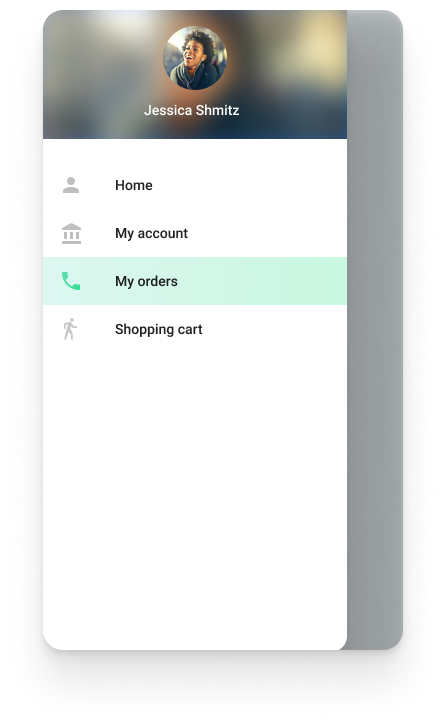
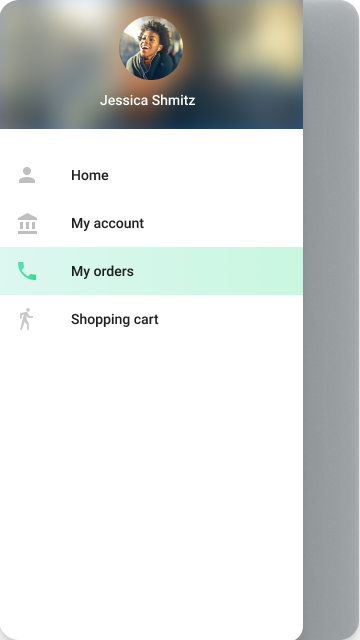
Clean repository, perform code refactor in cart screen
Debug screen and old order screen removed, SideMenu mockup updated, cart functions that modify quantity refactored into a single function.

diff --git a/lib/ui/screens/cart_screen.dart b/lib/ui/screens/cart_screen.dart
@@ -53,6 +53,21 @@ class _CartScreenState extends State<CartScreen> {
     return tempList;
   }
 
+  void onCartItemQuantityChange(int newQuantity, CartScreenViewModel viewModel,
+                                CartItem cartItem, BuildContext context,
+                                {TextEditingController controller}) {
+    if (newQuantity < minQuantity || newQuantity > maxQuantity) {
+      displaySnackbarWithText(context, "The quantity must be between 1 and 50");
+      if (controller != null) {
+        controller.text = cartItem.quantity.toString();
+      }
+    }
+    else {
+      viewModel.changeCartItemQuantityCallback(
+          CartItem(cartItem.productId, newQuantity));
+    }
+  }
+
   @override
   void dispose() {
     textControllers.forEach((element) => element.dispose());
@@ -159,20 +174,13 @@ class _CartScreenState extends State<CartScreen> {
                                       child: IconButton(
                                         icon: Icon(
                                           Icons.remove_circle,
-                                          color: Colors.black,
+                                          //color: Colors.black,
                                         ),
                                         onPressed: () {
                                           int newQuantity =
                                               cartItem.quantity - 1;
-                                          if (newQuantity < minQuantity ||
-                                              newQuantity > maxQuantity)
-                                            displaySnackbarWithText(context,
-                                                "The quantity must be between 1 and 50");
-                                          else
-                                            viewModel
-                                                .changeCartItemQuantityCallback(
-                                                    CartItem(cartItem.productId,
-                                                        newQuantity));
+                                          onCartItemQuantityChange(newQuantity,
+                                              viewModel, cartItem, context);
                                         },
                                       ),
                                     ),
@@ -185,18 +193,13 @@ class _CartScreenState extends State<CartScreen> {
                                           if (!focus) {
                                             int quantity = int.tryParse(
                                                 textQuantityController.text);
+
                                             if (quantity != null) {
-                                              if (quantity < minQuantity ||
-                                                  quantity > maxQuantity)
-                                                displaySnackbarWithText(context,
-                                                    "The quantity must be between 1 and 50");
-                                              else
-                                                viewModel
-                                                    .changeCartItemQuantityCallback(
-                                                        CartItem(
-                                                            cartItem.productId,
-                                                            quantity));
-                                            } else {
+                                              onCartItemQuantityChange(quantity,
+                                                viewModel, cartItem, context,
+                                                controller: textQuantityController);
+                                            }
+                                            else {
                                               displaySnackbarWithText(context,
                                                   "The quantity must be a valid integer");
                                               textQuantityController.text =
@@ -210,18 +213,13 @@ class _CartScreenState extends State<CartScreen> {
                                           controller: textQuantityController,
                                           onSubmitted: (value) {
                                             int quantity = int.tryParse(value);
+
                                             if (quantity != null) {
-                                              if (quantity < minQuantity ||
-                                                  quantity > maxQuantity)
-                                                displaySnackbarWithText(context,
-                                                    "The quantity must be between 1 and 50");
-                                              else
-                                                viewModel
-                                                    .changeCartItemQuantityCallback(
-                                                        CartItem(
-                                                            cartItem.productId,
-                                                            quantity));
-                                            } else {
+                                              onCartItemQuantityChange(quantity,
+                                                viewModel, cartItem, context,
+                                                controller: textQuantityController);
+                                            }
+                                            else {
                                               displaySnackbarWithText(context,
                                                   "The quantity must be a valid integer");
                                               textQuantityController.text =
@@ -238,20 +236,13 @@ class _CartScreenState extends State<CartScreen> {
                                       child: IconButton(
                                         icon: Icon(
                                           Icons.add_circle,
-                                          color: Colors.black,
+                                          //color: Colors.black,
                                         ),
                                         onPressed: () {
                                           int newQuantity =
                                               cartItem.quantity + 1;
-                                          if (newQuantity < minQuantity ||
-                                              newQuantity > maxQuantity)
-                                            displaySnackbarWithText(context,
-                                                "The quantity must be between 1 and 50");
-                                          else
-                                            viewModel
-                                                .changeCartItemQuantityCallback(
-                                                    CartItem(cartItem.productId,
-                                                        newQuantity));
+                                          onCartItemQuantityChange(newQuantity,
+                                              viewModel, cartItem, context);
                                         },
                                       ),
                                     ),

diff --git a/lib/main.dart b/lib/main.dart
@@ -10,7 +10,6 @@ import 'package:realiteye/redux/app_state.dart';
 import 'package:realiteye/redux/middlewares.dart';
 import 'package:realiteye/redux/reducers.dart';
 import 'package:realiteye/ui/screens/cart_screen.dart';
-import 'package:realiteye/ui/screens/debug_screen.dart';
 import 'package:realiteye/ui/screens/home_screen.dart';
 import 'package:realiteye/ui/screens/login_screen.dart';
 import 'package:realiteye/ui/screens/order_screen.dart';
@@ -66,7 +65,6 @@ class MyApp extends StatelessWidget {
       builder: (context, snapshot) {
         // Check for errors
         if (snapshot.hasError) {
-          // TODO: Change TextDirection based on current locale language
           return Text(LocaleKeys.error.tr(), textDirection: TextDirection.ltr);
         }
         // Once complete, show your application
@@ -126,7 +124,6 @@ class MyApp extends StatelessWidget {
                           '/register': (context) => RegistrationScreen(),
                           '/unity': (context) => UnityScreen(),
                           '/cart': (context) => CartScreen(),
-                          '/debug': (context) => DebugScreen(),
                           '/search': (context) => SearchScreen(),
                           '/profile': (context) => ProfileScreen(),
                           '/orders': (context) => OrderScreen()

diff --git a/lib/ui/widgets/side_menu.dart b/lib/ui/widgets/side_menu.dart
@@ -86,14 +86,6 @@ class SideMenu extends StatelessWidget {
                       ),
                     ),
                     ..._buildMenuItems(viewModel, context),
-                    ListTile(
-                      title: Text(LocaleKeys.drawer_debug.tr()),
-                      leading: Icon(Icons.bug_report),
-                      onTap: () async {
-                        // Close the drawer and open new screen
-                        Navigator.popAndPushNamed(context, "/debug");
-                      },
-                    ),
                   ],
                 ),
               ),

diff --git a/lib/utils/data_service.dart b/lib/utils/data_service.dart
@@ -13,11 +13,6 @@ final CollectionReference Function(FirebaseFirestore) products =
     (fireInstance) => fireInstance.collection('products');
 
 final int queryLimit = 5;
-// TODO: just for testing real time streams, eliminate in future
-Stream<QuerySnapshot> getUsers({FirebaseFirestore mockFsInstance}) {
-  // Call the user's CollectionReference to add a new user
-  return users(mockFsInstance ?? firestore).snapshots();
-}
 
 Future<QuerySnapshot> getUserCart(String uid, {FirebaseFirestore mockFsInstance}) async {
   DocumentSnapshot user = await users(mockFsInstance ?? firestore).doc(uid).get();
